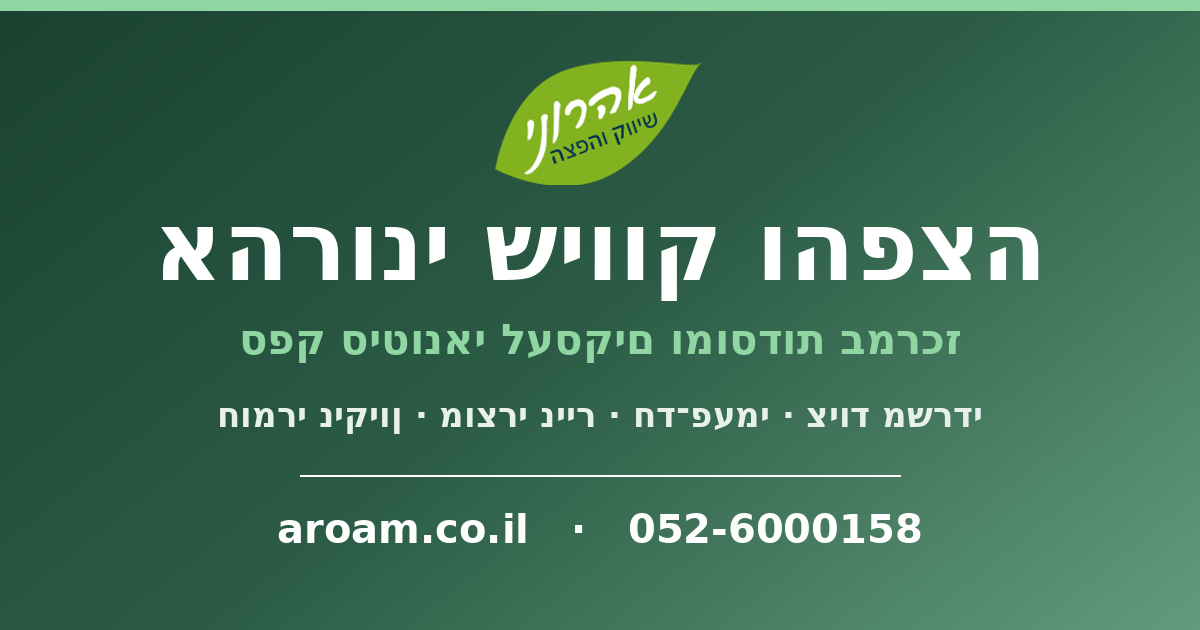
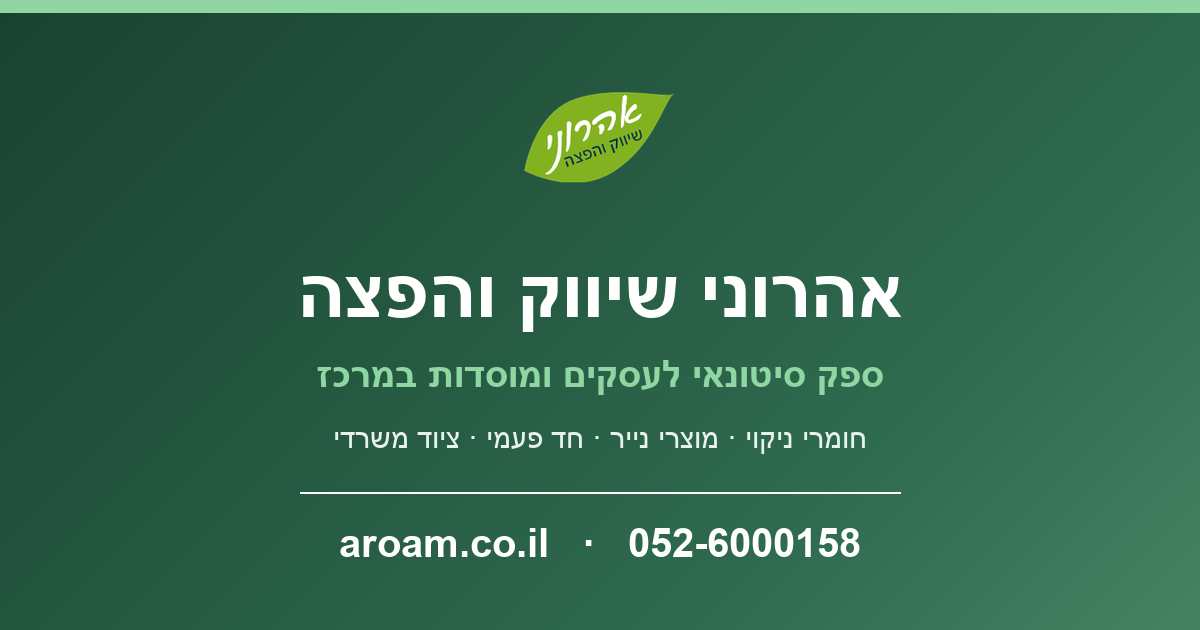
תיקון תמונת השיתוף (og-image) והסרת שם פרטי מדפי הנחיתה
og-image.png: העברית בתמונה הייתה הפוכה - "הצפהו קוויש ינורהא" במקום
"אהרוני שיווק והפצה". התמונה מוגדרת כog:image ב-46 עמודים, כלומר כל שיתוף
של האתר בוואטסאפ או ברשתות הציג עברית משובשת. נבנתה מחדש עם סידור RTL תקין,
באותם צבעי מותג ובאותו גודל (1200x630). הקובץ הפגום נשמר ב-images_backup.

דפי הנחיתה: הוסר השם הפרטי מ-lp/disposables ומ-lp/paper
("מענה אישי מרועי" -> "מענה אישי ומהיר", "מדברים ישירות עם רועי" ->
"מדברים ישירות עם מי שמחליט").

diff --git a/lp/disposables/index.html b/lp/disposables/index.html
@@ -55,7 +55,7 @@
                 <p class="lp-sub">אהרוני שיווק והפצה מספקת כלים חד פעמיים, אריזות למשלוחים ושקיות למסעדות, קייטרינג, משרדים ומוסדות מיבנה ועד רעננה. מחירים סיטונאיים אמיתיים, משלוח ישיר לעסק וחשבונית חודשית מרוכזת.</p>
 
                 <ul class="lp-points">
-                    <li><svg width="20" height="20" viewBox="0 0 24 24" fill="none" stroke="currentColor" stroke-width="2.5" stroke-linecap="round" stroke-linejoin="round" aria-hidden="true"><polyline points="20 6 9 17 4 12"></polyline></svg> מענה אישי מרועי — בלי מוקד ובלי המתנה</li>
+                    <li><svg width="20" height="20" viewBox="0 0 24 24" fill="none" stroke="currentColor" stroke-width="2.5" stroke-linecap="round" stroke-linejoin="round" aria-hidden="true"><polyline points="20 6 9 17 4 12"></polyline></svg> מענה אישי ומהיר — בלי מוקד ובלי המתנה</li>
                     <li><svg width="20" height="20" viewBox="0 0 24 24" fill="none" stroke="currentColor" stroke-width="2.5" stroke-linecap="round" stroke-linejoin="round" aria-hidden="true"><polyline points="20 6 9 17 4 12"></polyline></svg> מעל 170 מוצרים במלאי, כולל אספקה שוטפת קבועה</li>
                     <li><svg width="20" height="20" viewBox="0 0 24 24" fill="none" stroke="currentColor" stroke-width="2.5" stroke-linecap="round" stroke-linejoin="round" aria-hidden="true"><polyline points="20 6 9 17 4 12"></polyline></svg> הנחות על כמויות והזמנות חוזרות</li>
                 </ul>
@@ -130,7 +130,7 @@
                 </div>
                 <div>
                     <h3>מענה של בעל העסק</h3>
-                    <p>מדברים ישירות עם רועי. שינוי בהזמנה, מוצר דחוף או שאלה על כמות — נסגר בשיחה אחת, לא בפתיחת קריאה במוקד.</p>
+                    <p>מדברים ישירות עם מי שמחליט. שינוי בהזמנה, מוצר דחוף או שאלה על כמות — נסגר בשיחה אחת, לא בפתיחת קריאה במוקד.</p>
                 </div>
                 <div>
                     <h3>אספקה שוטפת קבועה</h3>

diff --git a/lp/paper/index.html b/lp/paper/index.html
@@ -55,7 +55,7 @@
                 <p class="lp-sub">אהרוני שיווק והפצה מספקת נייר טואלט מוסדי, נייר ניגוב ידיים, גלילים תעשייתיים וצץ-רץ למשרדים, מפעלים, מוסדות ומסעדות מיבנה ועד רעננה. אריזות מוסדיות שמורידות עלות, משלוח ישיר לעסק וחשבונית חודשית מרוכזת.</p>
 
                 <ul class="lp-points">
-                    <li><svg width="20" height="20" viewBox="0 0 24 24" fill="none" stroke="currentColor" stroke-width="2.5" stroke-linecap="round" stroke-linejoin="round" aria-hidden="true"><polyline points="20 6 9 17 4 12"></polyline></svg> מענה אישי מרועי — בלי מוקד ובלי המתנה</li>
+                    <li><svg width="20" height="20" viewBox="0 0 24 24" fill="none" stroke="currentColor" stroke-width="2.5" stroke-linecap="round" stroke-linejoin="round" aria-hidden="true"><polyline points="20 6 9 17 4 12"></polyline></svg> מענה אישי ומהיר — בלי מוקד ובלי המתנה</li>
                     <li><svg width="20" height="20" viewBox="0 0 24 24" fill="none" stroke="currentColor" stroke-width="2.5" stroke-linecap="round" stroke-linejoin="round" aria-hidden="true"><polyline points="20 6 9 17 4 12"></polyline></svg> מתאים למתקנים קיימים — נבדוק מה נכנס אצלכם</li>
                     <li><svg width="20" height="20" viewBox="0 0 24 24" fill="none" stroke="currentColor" stroke-width="2.5" stroke-linecap="round" stroke-linejoin="round" aria-hidden="true"><polyline points="20 6 9 17 4 12"></polyline></svg> אספקה שוטפת קבועה והנחות על כמויות</li>
                 </ul>
